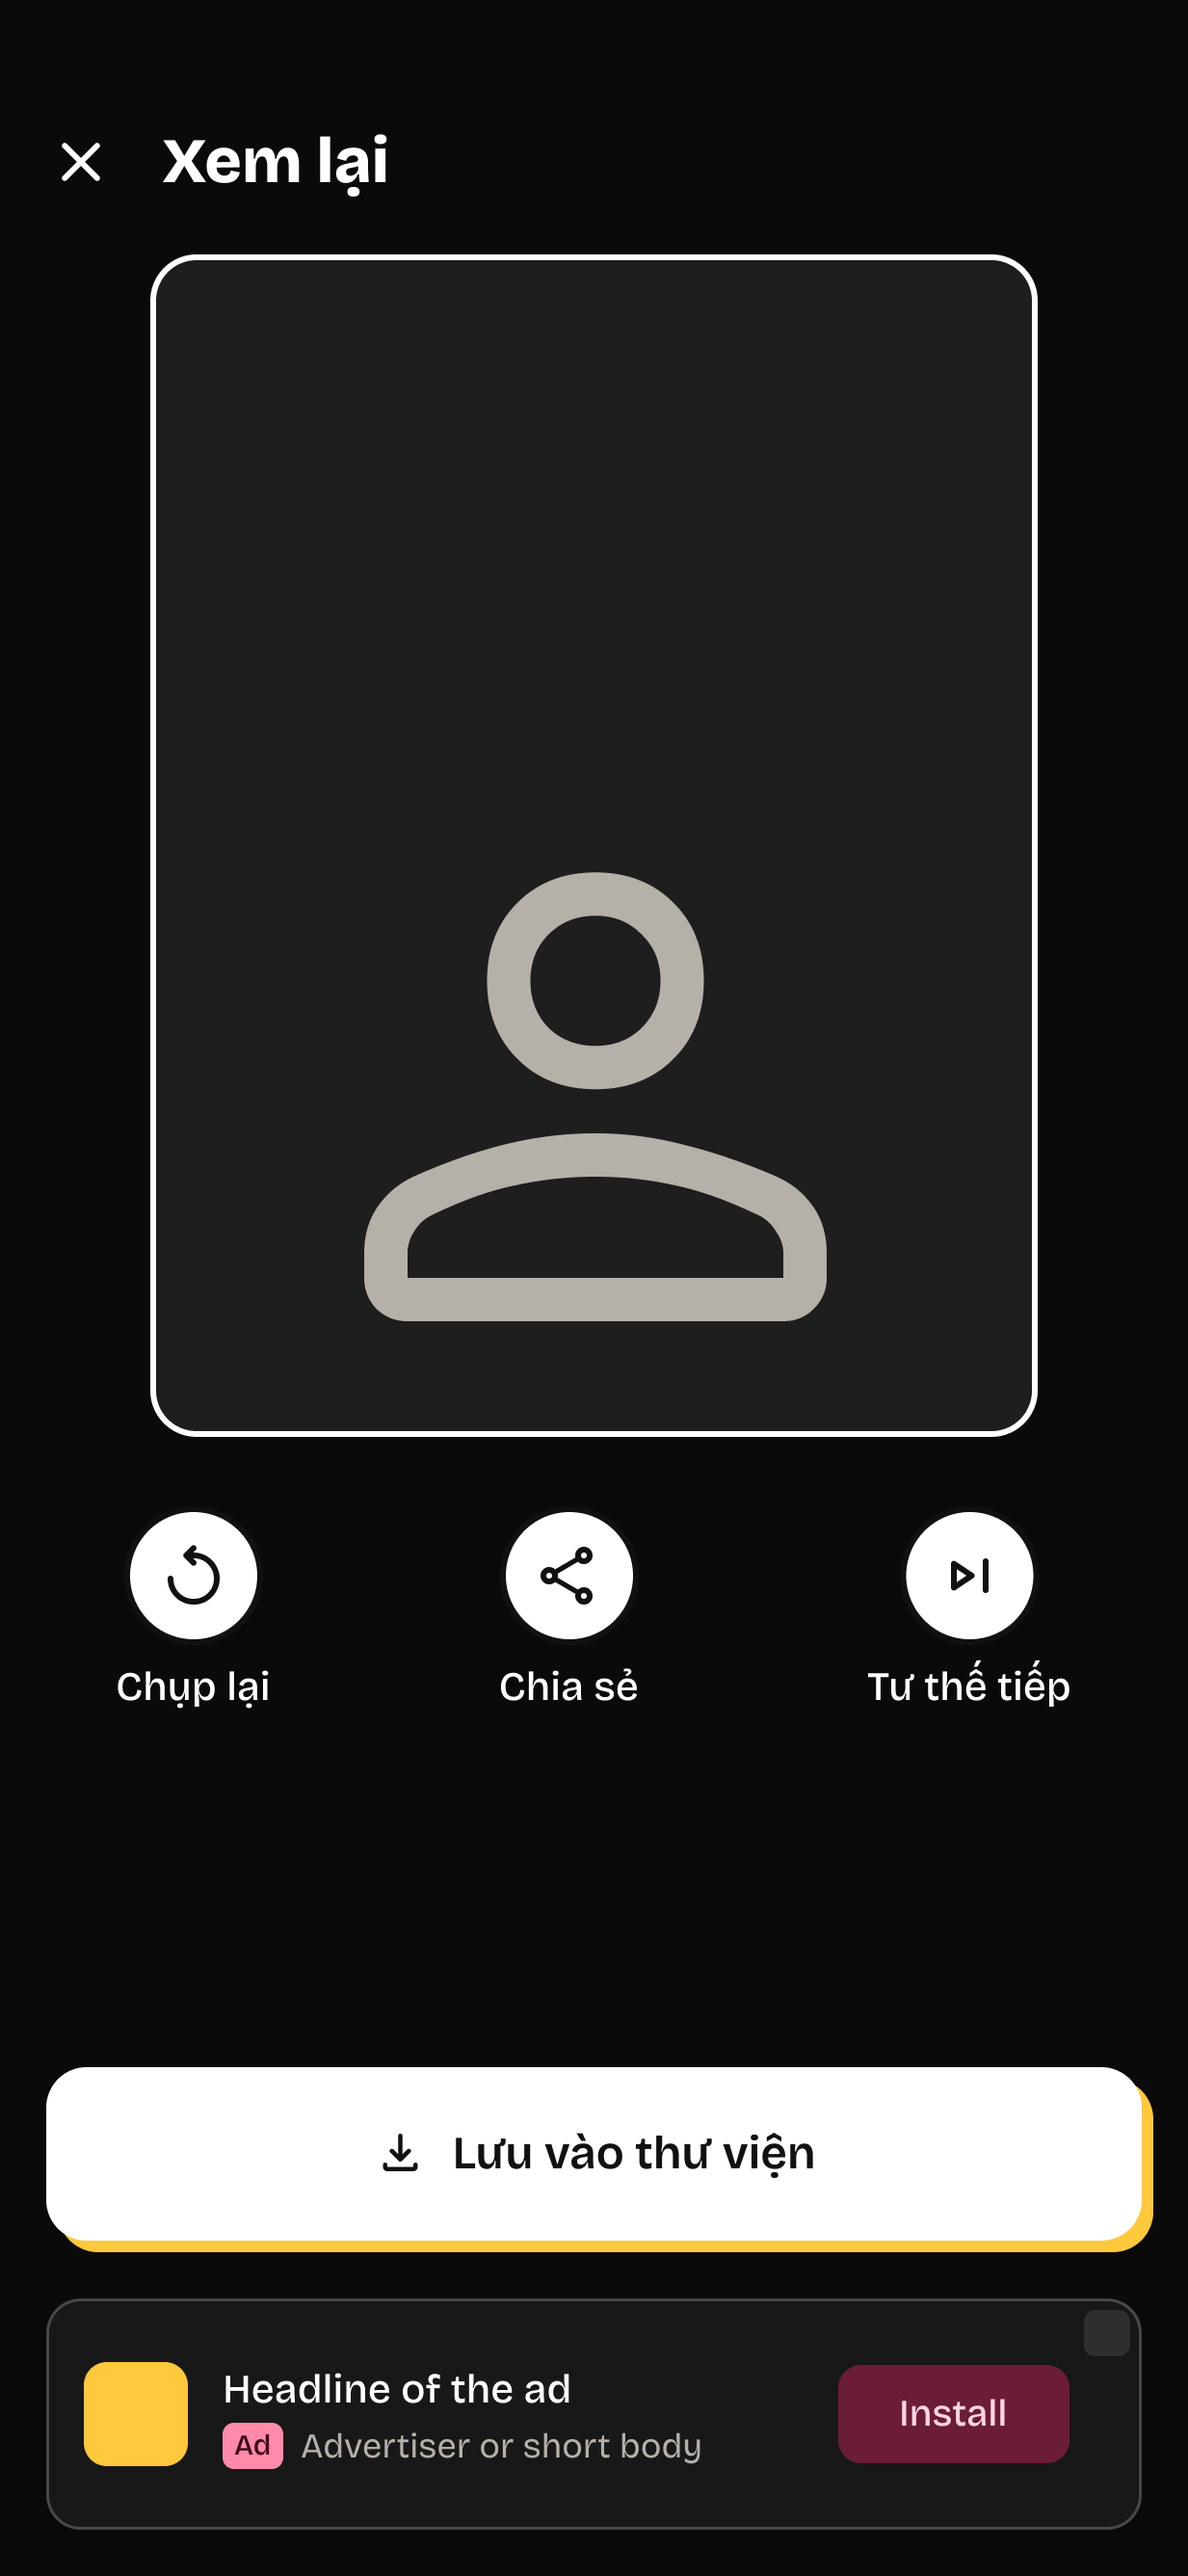
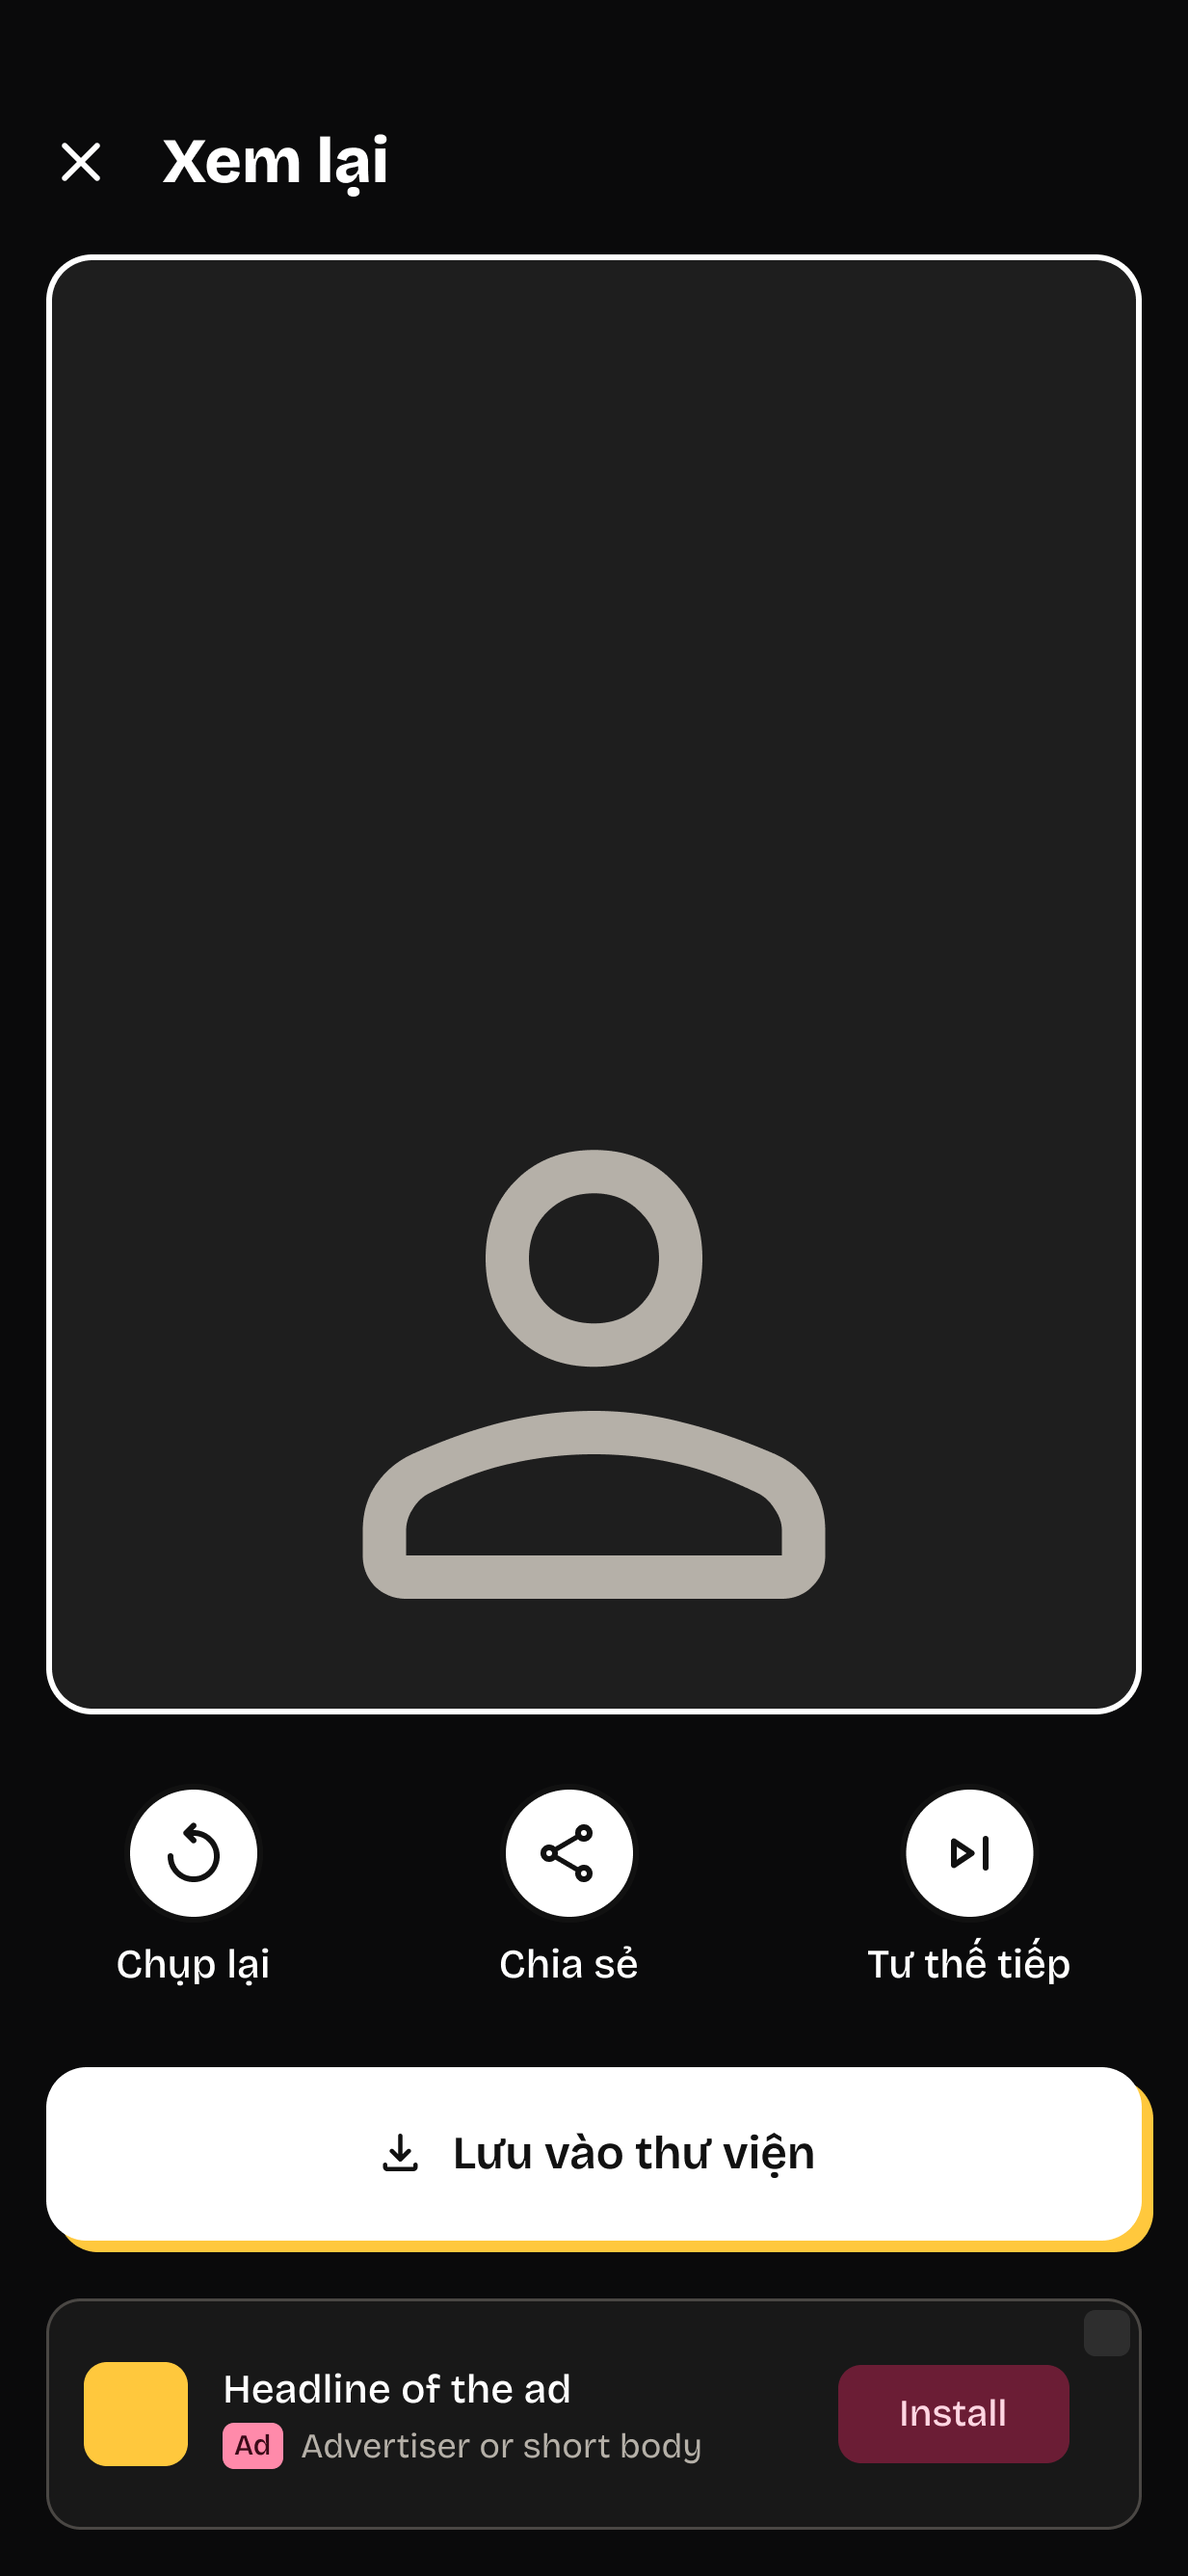
Thiết kế ReviewScreen_ad_dark: giữ ảnh 379 x 505, chỉ nút chính dời lên (#337)
* Thiết kế ReviewScreen_ad_dark: giữ ảnh 379 x 505, chỉ nút chính dời lên

* README thiết kế camera: ảnh co ở save-error và khung thấp khi có thanh

* README thiết kế camera: bỏ số ước, dẫn số đo thật của plan

* README thiết kế camera: khoảng nút chính và thanh khi mở gập là 20 theo code

* README thiết kế camera: mục 5 ghi khoảng 20 cho cả máy gập

---------

diff --git a/docs/features/camera/design/README.md b/docs/features/camera/design/README.md
@@ -103,7 +103,7 @@ Dấu ba chấm là một ký tự (`…`).
 | Xem lại: nút chính | `PrimaryButton` `download` | `secondary` (tối: trắng), `onSecondary` | | Rộng hết, cách đáy `Spacing.lg` |
 | Xem lại: lưu lỗi | `Snackbar` | `inverseSurface`, `inverseOnSurface`, `inversePrimary` | | Trên nút chính `Spacing.md` |
 | Xem lại: hỏi bỏ ảnh | `ConfirmDialog` trên lớp mờ 50% | `surface`, viền `outline` | | Rộng 331 |
-| Xem lại: thanh đáy native | `BottomAdBarScaffold` của `:core:ads` (component Figma `NativeAdSmall`, theo `NativeAdCard` cỡ `SMALL`); không có lớp native thu gọn nổi (spec ads, câu 19, ý e) | Theo khung, chế độ tối: nền `surfaceContainerLow`, viền `outlineVariant` 1, icon `secondaryContainer`, nhãn "Ad" `tertiary`, nút `tertiaryContainer` | Theo khung | Khe 80, cách mép trái, phải, đáy `Spacing.md`; nội dung chừa 96 ở đáy. Điện thoại: ảnh co còn 307 x 409 (giữ 3:4, căn giữa), hàng nút phụ và nút chính dời lên 96. Gập mở: thanh rộng hết (641) dưới cả ảnh và cột phải; ảnh giữ 450 x 600, nút chính dời lên, cách thanh `Spacing.md` |
+| Xem lại: thanh đáy native | `BottomAdBarScaffold` của `:core:ads` (component Figma `NativeAdSmall`, theo `NativeAdCard` cỡ `SMALL`); không có lớp native thu gọn nổi (spec ads, câu 19, ý e) | Theo khung, chế độ tối: nền `surfaceContainerLow`, viền `outlineVariant` 1, icon `secondaryContainer`, nhãn "Ad" `tertiary`, nút `tertiaryContainer` | Theo khung | Khe 80, cách mép trái, phải, đáy `Spacing.md`; nội dung chừa 96 ở đáy. Điện thoại: ảnh giữ 379 x 505 và hàng nút phụ giữ chỗ như khi không có thanh (còn đủ chỗ ở khung chuẩn), chỉ nút chính dời lên 96; khi màn có thêm nội dung (thông báo lưu lỗi, nút "Mở cài đặt") và ở khung thấp, ảnh co lại theo chỗ còn lại, giữ 3:4; số đo thật ở mục 4 của plan T-094 (Nhật chọn ngày 2026-11-13, theo bố cục có sẵn của màn). Gập mở: thanh rộng hết (641) dưới cả ảnh và cột phải; ảnh giữ 450 x 600, nút chính dời lên, cách thanh 20 (như điện thoại: lề dưới của nút chính trong code; frame vẽ 16) |
 
 - **Thành phần mới cần thêm vào hệ thống thiết kế:** `CameraIconButton`, `StickerChip`, `SelectedBadge`, `PoseThumb`, `StepCard`, `ZoomControl`, `MatchHint`, `AdjustPanel`, `GridOverlay`, `StateMessage`, `SecondaryButton` (xem `sticker.md`, mục 4).
 
@@ -119,7 +119,7 @@ Dấu ba chấm là một ký tự (`…`).
 
 ## 5. Vị trí quảng cáo
 
-`review_interstitial`: toàn màn hình, hiện khi rời `ReviewScreen` sau khi đã lưu ảnh, trước khi về camera (spec mục 5). `review_bottom` (spec ads, câu 19): thanh đáy native nhỏ ở đáy `ReviewScreen`, dưới mọi nút, ở mọi trạng thái của màn (ảnh `ReviewScreen_ad_*`); ảnh co lại cho vừa phần còn lại, không bị cắt hay che. Khóa tắt, quảng cáo đang tải hay không có thì không chừa khoảng trống (ảnh `default`). Hộp thoại "Bỏ ảnh này?" và thông báo lưu lỗi phủ lên như hôm nay. `is_show_native_bottom` tắt thì khe là banner ở cùng chỗ; không có lớp quảng cáo nổi dù `is_show_native_collap` bật (spec camera, KB-9). Bo góc 12, bo ảnh và nút 8, khoảng cách 12, cỡ chữ 13 và 10 của thẻ là số của khung (`NativeAdDimens`); `context/` ghi "ngoài hệ thống", không làm tròn hay thêm token. Vị trí từng phần lấy theo `context/` của từng frame: ở điện thoại nút chính cách thanh 20, ở máy gập mở ra cách 16. Chữ của thẻ là chữ giả của ảnh chuẩn `NativeAdCard`, không vào bảng chữ. Không có vùng quảng cáo nào trên `CameraScreen`.
+`review_interstitial`: toàn màn hình, hiện khi rời `ReviewScreen` sau khi đã lưu ảnh, trước khi về camera (spec mục 5). `review_bottom` (spec ads, câu 19): thanh đáy native nhỏ ở đáy `ReviewScreen`, dưới mọi nút, ở mọi trạng thái của màn (ảnh `ReviewScreen_ad_*`); ảnh co lại cho vừa phần còn lại, không bị cắt hay che. Khóa tắt, quảng cáo đang tải hay không có thì không chừa khoảng trống (ảnh `default`). Hộp thoại "Bỏ ảnh này?" và thông báo lưu lỗi phủ lên như hôm nay. `is_show_native_bottom` tắt thì khe là banner ở cùng chỗ; không có lớp quảng cáo nổi dù `is_show_native_collap` bật (spec camera, KB-9). Bo góc 12, bo ảnh và nút 8, khoảng cách 12, cỡ chữ 13 và 10 của thẻ là số của khung (`NativeAdDimens`); `context/` ghi "ngoài hệ thống", không làm tròn hay thêm token. Vị trí từng phần lấy theo `context/` của từng frame; nút chính cách thanh 20 ở cả điện thoại lẫn máy gập mở ra (frame máy gập vẽ 16, code giữ 20). Chữ của thẻ là chữ giả của ảnh chuẩn `NativeAdCard`, không vào bảng chữ. Không có vùng quảng cáo nào trên `CameraScreen`.
 
 ## 6. Chuyển sang Compose
 
